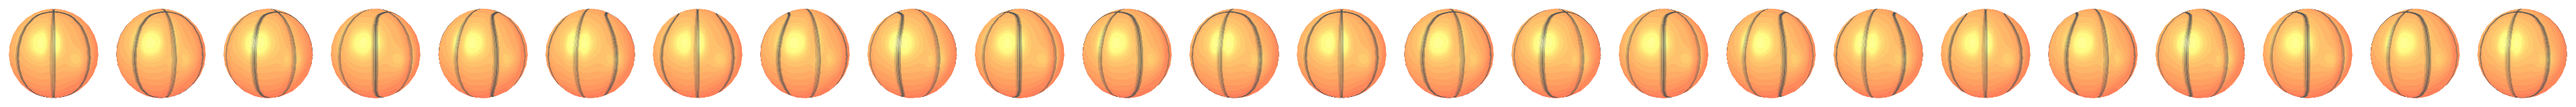
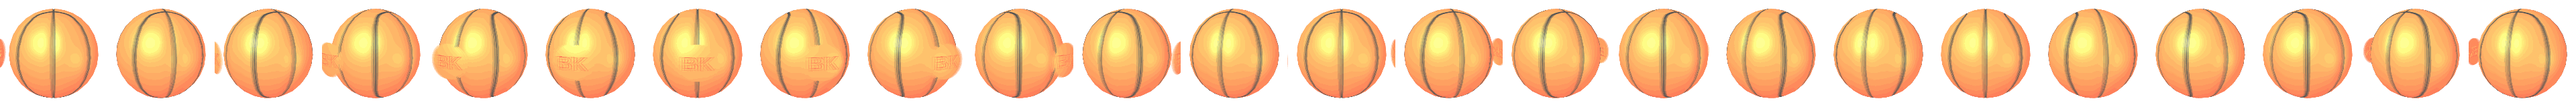
v0.35 — restore the debossed-BK ball (the version that looked right)
Reverts v0.34's plain re-bake back to the v0.33 debossed ball asset + its comment.
The earlier 'floating circle' was the old black badge (v0.32) still cached; the
debossed version is the one that reads correctly.

diff --git a/docs/play/index.html b/docs/play/index.html
@@ -141,10 +141,12 @@
   #ldMain.hide{opacity:0}
   #ldSpinWrap{position:relative;width:190px;height:190px;
     filter:drop-shadow(0 16px 22px rgba(0,0,0,.55))}
-  /* The ball spins on a vertical axis (fingertip-style) — a 24-frame sprite strip
-     (3840x160) pre-rendered with a slight forward tilt + a touch of motion blur;
-     scene lights are fixed so the highlight stays put. Shared .spinball component
-     (also used on the Brains x Buckets screen). */
+  /* The ball spins on a vertical axis (fingertip-style) with a BK logo DEBOSSED
+     into the surface (same orange as the ball, only the pressed-in relief shows) —
+     the subtle asymmetry is what makes the spin read. 24-frame sprite strip
+     (3840x160), slight forward tilt + a touch of motion blur; scene lights are
+     fixed so the highlight stays put. Shared .spinball component (also used on the
+     Brains x Buckets screen). */
   .spinball{position:relative;overflow:hidden;border-radius:50%}
   .spinball .orb{position:absolute;left:0;top:0;height:100%;width:2400%;max-width:none;
     animation:ballroll .95s steps(24) infinite;will-change:transform}
@@ -684,7 +686,7 @@
     <button class="mbtn locked"><span class="idx">04</span>Packs &amp; My Squad<span class="soon">Coming soon</span></button>
     <button class="mbtn" id="btnOnline"><span class="idx">05</span>Online · Friend Codes<span class="soon" style="color:#6fd0c3">NEW · alpha</span></button>
   </div>
-  <div class="proto">v0.34 · plain ball</div>
+  <div class="proto">v0.35 · fingertip spin</div>
 </div>
 
 <!-- HOW TO -->
